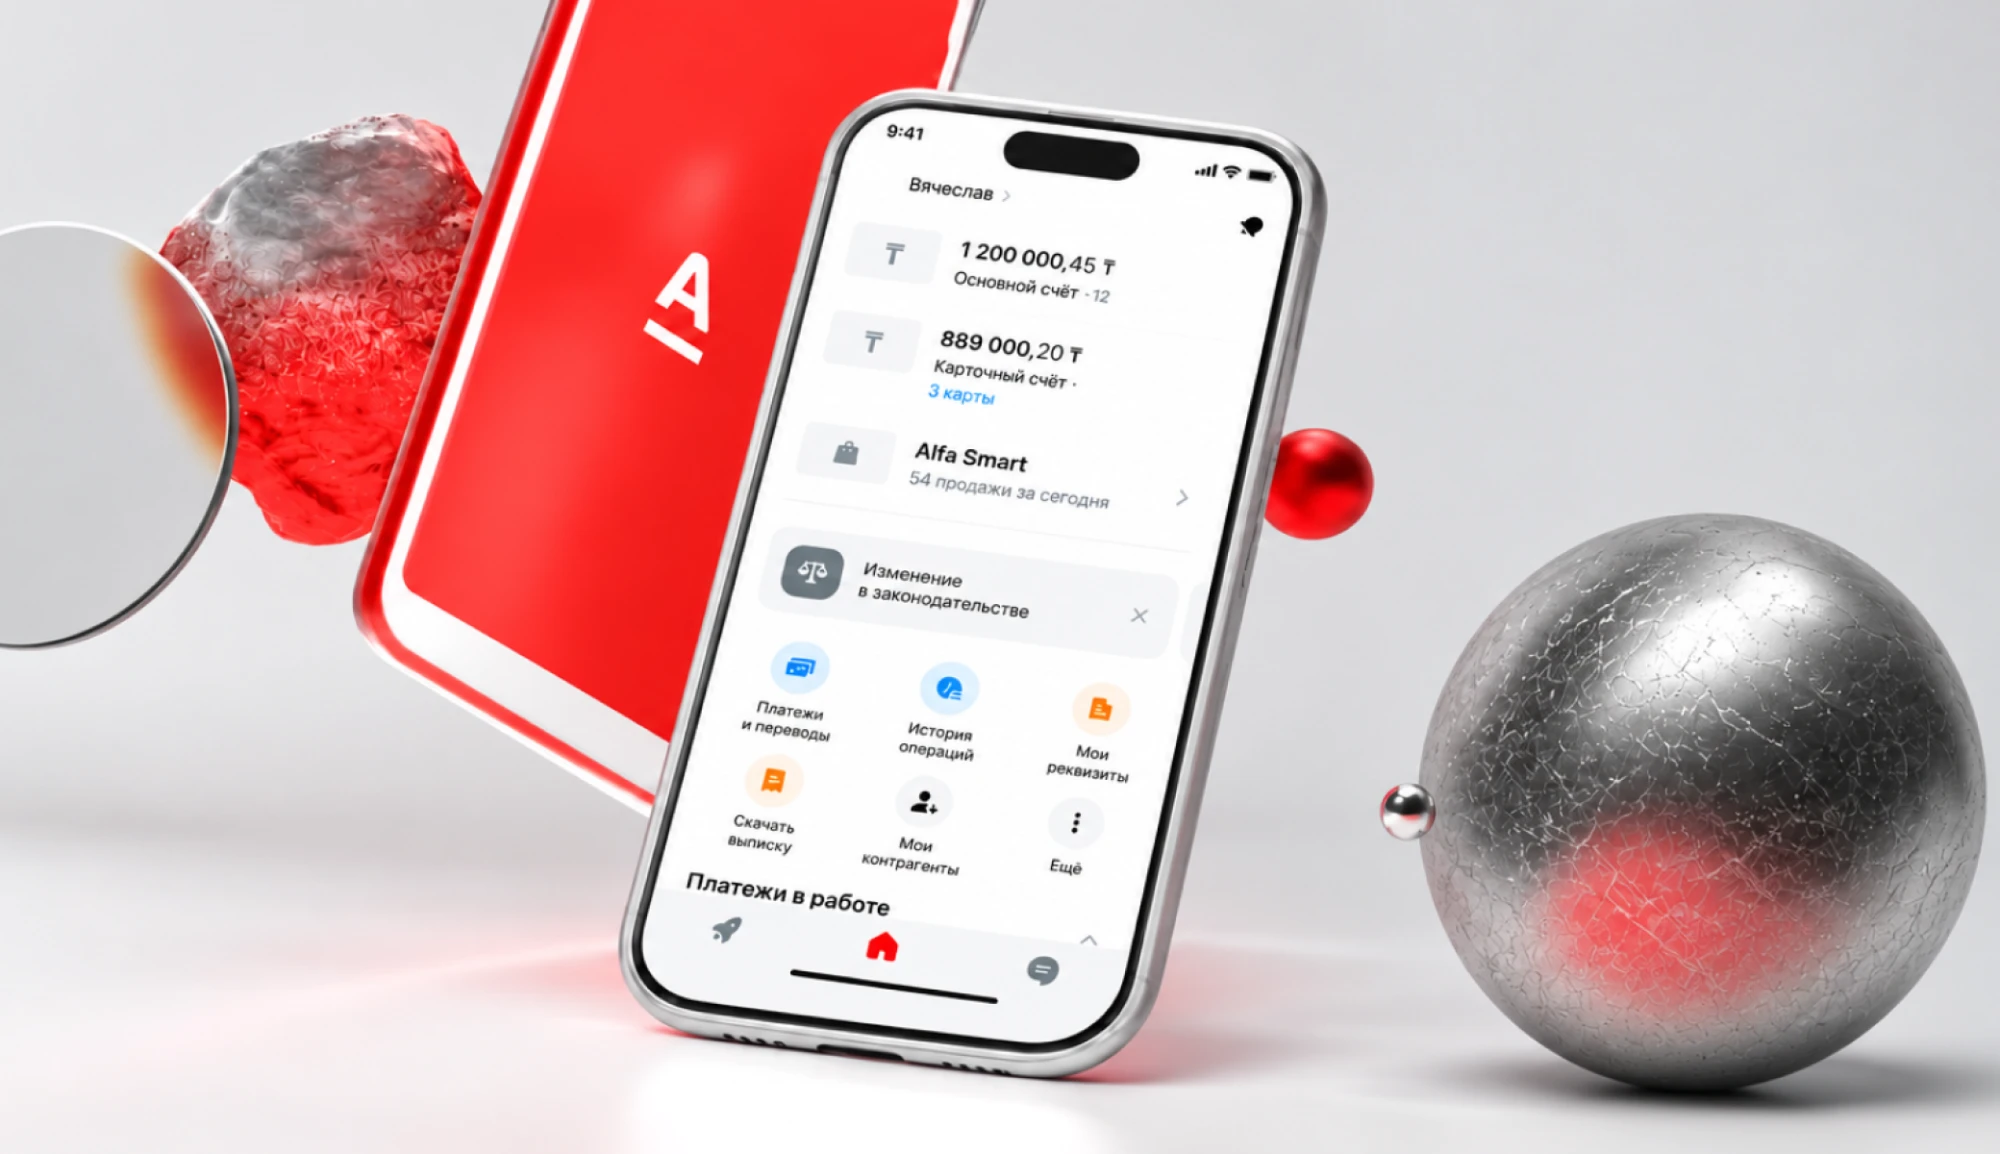
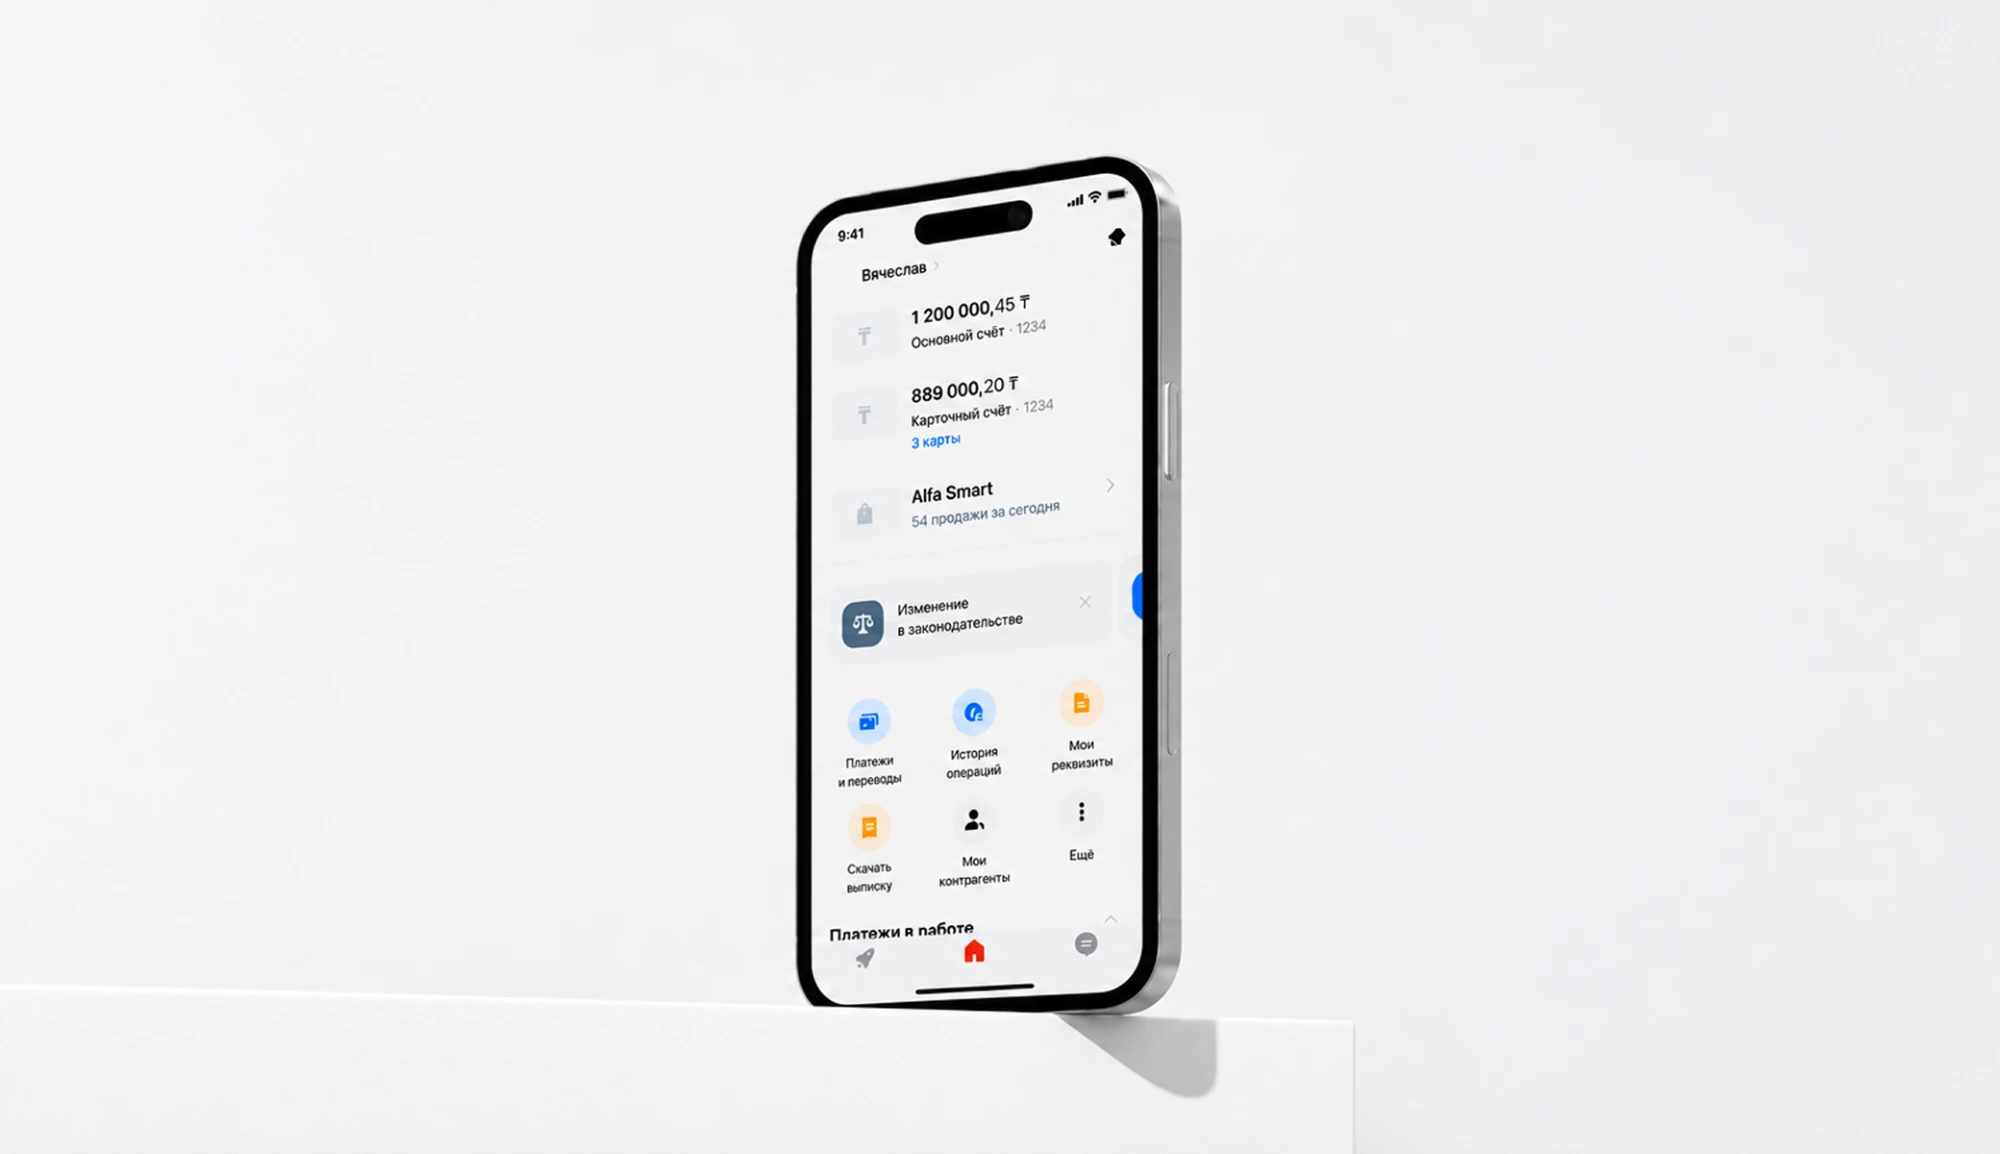
Новые обложки кейсов дизайн-системы Tele2 и Альфа-Банка

diff --git a/index.html b/index.html
@@ -134,8 +134,8 @@
 
       <article class="case" data-reveal>
         <a draggable="false" class="case__cover" href="/tele2-ds" aria-label="Дизайн-система на токенах для Tele2 и Altel">
-          <img draggable="false" class="cover-light" src="images/case-tele2-ds-light.webp?v=2" alt="Токены Tele2 и Altel в Tokens Studio для Figma" loading="lazy">
-          <img draggable="false" class="cover-dark" src="images/case-tele2-ds-dark.webp?v=2" alt="Токены Tele2 и Altel в Tokens Studio для Figma" loading="lazy">
+          <img draggable="false" class="cover-light" src="images/case-tele2-ds-light.webp?v=3" alt="Токены Tele2 и Altel в Tokens Studio для Figma" loading="lazy">
+          <img draggable="false" class="cover-dark" src="images/case-tele2-ds-dark.webp?v=3" alt="Токены Tele2 и Altel в Tokens Studio для Figma" loading="lazy">
         </a>
         <h3 class="case__title">Дизайн-система на&nbsp;токенах для&nbsp;Tele2 и&nbsp;Altel</h3>
         <p class="case__text">Собрали одну библиотеку компонентов на&nbsp;дизайн-токенах, которая переключает интерфейс с&nbsp;одного бренда на&nbsp;другой в&nbsp;один клик — в&nbsp;дизайне и&nbsp;в&nbsp;коде.</p>
@@ -144,8 +144,8 @@
 
       <article class="case" data-reveal>
         <a draggable="false" class="case__cover" href="/abusiness" aria-label="Редизайн мобильного банка для бизнеса">
-          <img draggable="false" class="cover-light" src="images/case-alfa-light.webp?v=1" alt="iPhone с главным экраном приложения Альфа-Банка для бизнеса" loading="lazy">
-          <img draggable="false" class="cover-dark" src="images/case-alfa-dark.webp?v=2" alt="iPhone с главным экраном приложения Альфа-Банка для бизнеса" loading="lazy">
+          <img draggable="false" class="cover-light" src="images/case-alfa-light.webp?v=2" alt="iPhone с главным экраном приложения Альфа-Банка для бизнеса" loading="lazy">
+          <img draggable="false" class="cover-dark" src="images/case-alfa-dark.webp?v=3" alt="iPhone с главным экраном приложения Альфа-Банка для бизнеса" loading="lazy">
         </a>
         <h3 class="case__title">Редизайн мобильного банка для&nbsp;бизнеса</h3>
         <p class="case__text">Вместе с&nbsp;командой выяснил, почему предприниматели не&nbsp;справляются с&nbsp;базовыми задачами в&nbsp;приложении, и&nbsp;переделал ключевые сценарии и&nbsp;навигацию под их&nbsp;реальное поведение.</p>

diff --git a/tele2-ds.html b/tele2-ds.html
@@ -92,8 +92,8 @@
       <p class="case-page__talk" data-reveal>Рассказывал об&nbsp;этом проекте на&nbsp;конференции UsabilityLab: <a href="https://www.youtube.com/watch?v=hidl-D2Wdzc" target="_blank" rel="noopener">смотреть доклад «Дизайн-токены: адаптация интерфейса под любой бренд»</a></p>
 
       <figure class="case-page__cover" data-reveal>
-        <img class="cover-light" src="images/case-tele2-ds-light.webp?v=2" alt="Токены Tele2 и Altel в Tokens Studio для Figma">
-        <img class="cover-dark" src="images/case-tele2-ds-dark.webp?v=2" alt="Токены Tele2 и Altel в Tokens Studio для Figma">
+        <img class="cover-light" src="images/case-tele2-ds-light.webp?v=3" alt="Токены Tele2 и Altel в Tokens Studio для Figma">
+        <img class="cover-dark" src="images/case-tele2-ds-dark.webp?v=3" alt="Токены Tele2 и Altel в Tokens Studio для Figma">
       </figure>
 
       <section class="case-page__section" data-reveal>

diff --git a/abusiness.html b/abusiness.html
@@ -91,8 +91,8 @@
       </dl>
 
       <figure class="case-page__cover" data-reveal>
-        <img class="cover-light" src="images/case-alfa-light.webp?v=1" alt="iPhone с главным экраном приложения Альфа-Банка для бизнеса">
-        <img class="cover-dark" src="images/case-alfa-dark.webp?v=2" alt="iPhone с главным экраном приложения Альфа-Банка для бизнеса">
+        <img class="cover-light" src="images/case-alfa-light.webp?v=2" alt="iPhone с главным экраном приложения Альфа-Банка для бизнеса">
+        <img class="cover-dark" src="images/case-alfa-dark.webp?v=3" alt="iPhone с главным экраном приложения Альфа-Банка для бизнеса">
       </figure>
 
       <section class="case-page__section" data-reveal>
